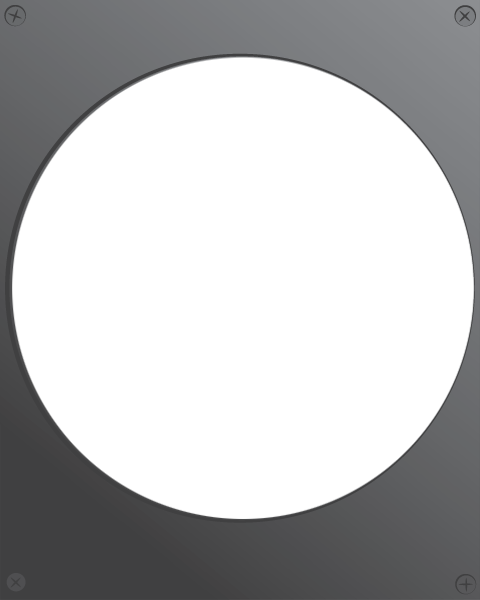
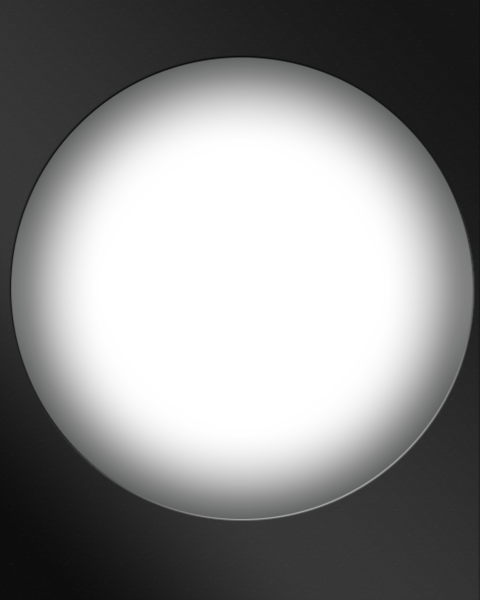
inte html css img

diff --git a/css/style.css b/css/style.css
@@ -38,45 +38,83 @@ table{border-collapse: collapse;border-spacing: 0;}
 #dashboard{
 	width:480px;
 	height:600px;
-	z-index:10000;
+	z-index:100;
 	background: url('../img/dashboard/fond.png');
 	position:relative;
 	top:0px;
 	left:480px;
 }
-#compteur_poids{
-	width:107px;
-	height:120px;
-	z-index:10000;
-	background: url('../img/dashboard/poids.png');
-	position:relative;
-	top:460px;
-	left:350px;
+#top{
+	width:480px;
+	height:180px;
 }
-#jauge_poids{
-	width:92px;
-	height:18px;
-	z-index:20000;
-	background: url('../img/dashboard/aiguille_poids.png');
-	position:relative;
-	top:85px;
-	left:12px;
+#top #temps{
+	width:60px;
+	height:35px;
+	z-index:100;
+	background: url('../img/dashboard/temps_score.png');
+	position:absolute;
+	top:55px;
+	left:30px;
 }
-#compteur_hauteur{
-	width:32px;
-	height:120px;
-	z-index:10000;
+#top #mission{
+	width:257px;
+	height:26px;
+	z-index:100;
+	background: url('../img/dashboard/mission.png');
+	position:absolute;
+	top:20px;
+	left:115px;
+}
+#top #score{
+	width:60px;
+	height:35px;
+	z-index:100;
+	background: url('../img/dashboard/temps_score.png');
+	position:absolute;
+	top:55px;
+	left:390px;
+}
+#viseur{
+	width:231px;
+	height:188px;
+	z-index:200;
+	position:absolute;
+	/*background: url('../img/dashboard/viseur.png');
+		background-size:50%;*/
+	top:200px;
+	left:130px;
+}
+#bottom{
+	width:480px;
+	height:200px;
+	position:relative;
+	top:220px;
+}
+#bottom #radar{
+	width:115px;
+	height:115px;
+	z-index:100;
+	background: url('../img/dashboard/radar.png');
+	position:absolute;
+	top:70px;
+	left:360px;
+}
+#bottom #compteur_hauteur{
+	width:28px;
+	height:159px;
+	z-index:100;
 	background: url('../img/dashboard/hauteur.png');
-	position:relative;
-	top:340px;
-	left:50px;
+	position:absolute;
+	top:30px;
+	left:30px;
 }
-#jauge_hauteur{
-	width:19px;
-	height:17px;
-	z-index:10000;
+#bottom #jauge_hauteur{
+	width:40px;
+	height:40px;
+	z-index:100;
 	background: url('../img/dashboard/point_hauteur.png');
 	position:relative;
 	top:0px;
-	left:6px;
+	left:-6px;
 }

diff --git a/index.html b/index.html
@@ -22,14 +22,23 @@
 	    </object>
 		<div id="map3d"></div>
 		<div id="dashboard">
-			<div id="viseur">
-			</div>
-			<div id="compteur_poids">
-				<div id="jauge_poids">
+			<div id="top">
+				<div id="temps">
+				</div>
+				<div id="mission">
+				</div>
+				<div id="score">
 				</div>
 			</div>
-			<div id="compteur_hauteur">
-				<div id="jauge_hauteur">
+			<div id="viseur">
+				<img src="img/dashboard/viseur.png" width="231" height="188" alt="Viseur">
+			</div>
+			<div id="bottom">
+				<div id="radar">
+				</div>
+				<div id="compteur_hauteur">
+					<div id="jauge_hauteur">
+					</div>
 				</div>
 			</div>
 		</div>
